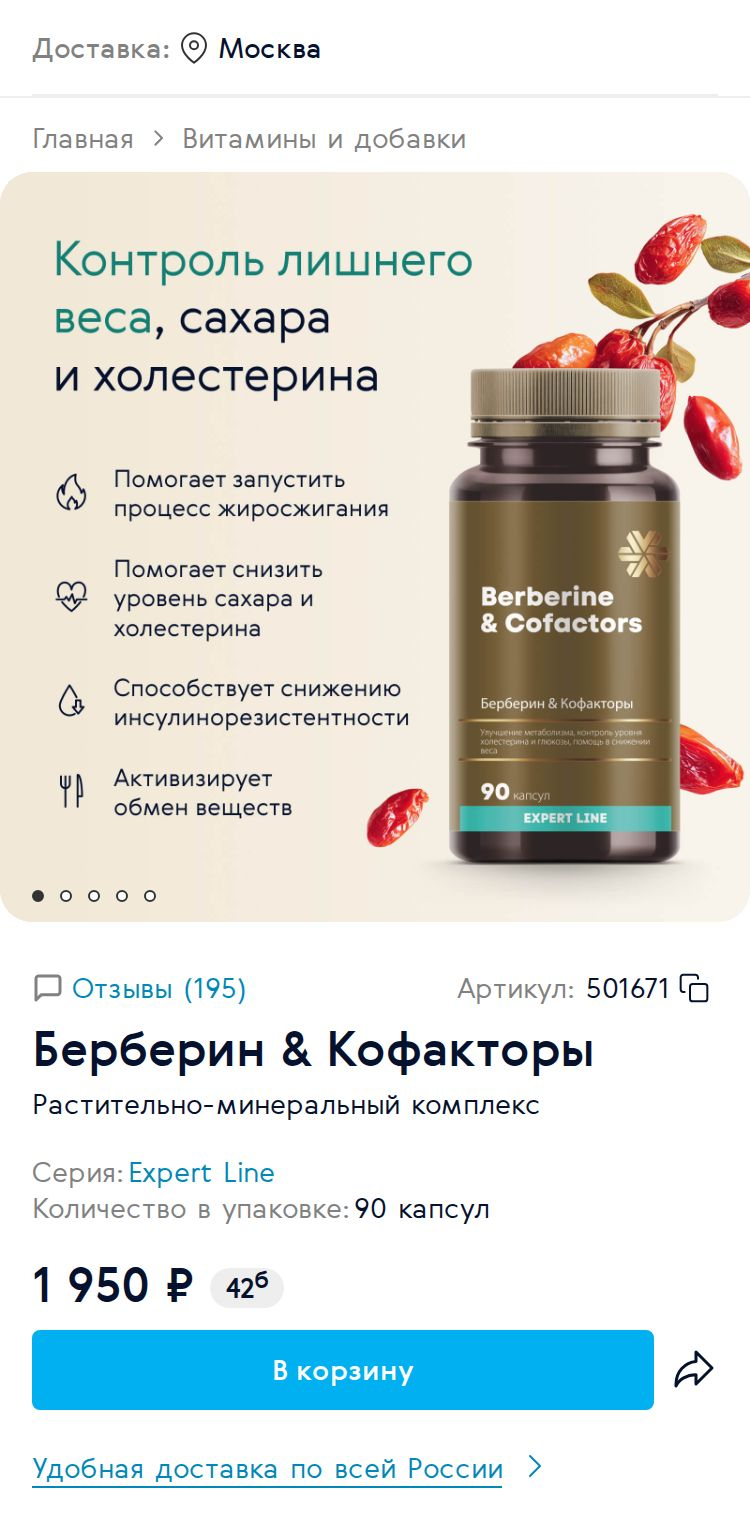
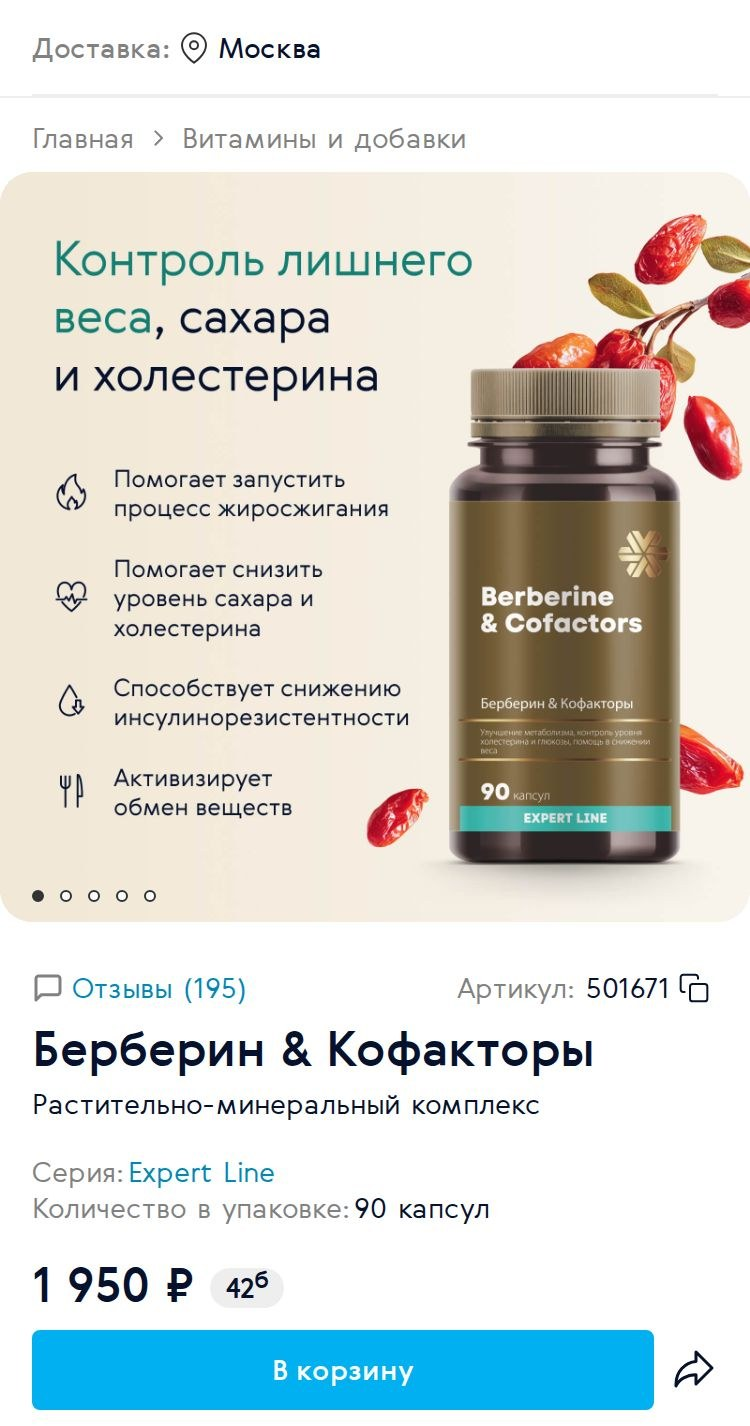
referal: продуктовая — баннер под «В корзину», кнопка 160px

diff --git a/referal/index.html b/referal/index.html
@@ -76,6 +76,9 @@
     background: #fff; display: flex; align-items: center; justify-content: center; color: var(--navy-ink);
   }
 
+  .cartBtn { position: absolute; border: none; border-radius: 4px; background: var(--brand); color: #fff; font-size: 16px; font-weight: 500; cursor: pointer; padding: 0; }
+  .cartBtn:active { background: var(--brand-d); }
+
   /* Таббар прода */
   .tabbar { flex: 0 0 auto; height: 52px; display: flex; border-top: 1px solid var(--line-2); background: #fff; }
   .tabbar button { flex: 1; background: none; border: none; display: flex; align-items: center; justify-content: center; color: var(--ink); cursor: pointer; padding: 0; }
@@ -278,7 +281,7 @@
 
   /* WHY: слои прода тянутся по ширине экрана, поэтому хотспоты задаём в % от слоя (координаты сняты в сетке 375px) */
   const at = (l, t, w, h, H) => ({ left: l / 3.75 + '%', top: (t / H) * 100 + '%', width: w / 3.75 + '%', height: (h / H) * 100 + '%' });
-  const PRODUCT_A_H = 761;
+  const PRODUCT_A_H = 713;
 
   /* Анимация отсвета стартует, когда баннер впервые попал в экран, а не при загрузке страницы */
   function useInView() {
@@ -404,13 +407,17 @@
           <img className="slice" src="assets/product-a.jpg" alt="" />
           <button type="button" className="hot" aria-label="Главная" style={at(8, 56, 70, 28, PRODUCT_A_H)} onClick={() => go('main')} />
           {/* WHY: «В корзину» сразу ведёт на сенкью — для теста оформление заказа пропускаем */}
-          <button type="button" className="hot" aria-label="В корзину" style={at(16, 665, 311, 40, PRODUCT_A_H)} onClick={() => go('thanks')} />
+          {/* WHY: на мобилке CTA «В корзину» по макету 160px — растровую кнопку прода закрываем и рисуем свою */}
+          <div style={{ position: 'absolute', ...at(14, 663, 316, 44, PRODUCT_A_H), background: '#fff' }} />
+          <button type="button" className="cartBtn" style={{ ...at(16, 665, 0, 40, PRODUCT_A_H), width: 160 }} onClick={() => go('thanks')}>В корзину</button>
           {/* WHY: пока программа активна, «Поделиться» живёт в баннере — иконку прода у CTA закрываем белой плашкой; после завершения — дефолт прода */}
           {STATE !== 'active'
             ? <button type="button" className="hot" aria-label="Поделиться" style={at(328, 664, 44, 44, PRODUCT_A_H)} onClick={() => open('share')} />
             : <div style={{ position: 'absolute', ...at(330, 662, 45, 46, PRODUCT_A_H), background: '#fff' }} />}
         </div>
-        {STATE === 'active' && <div className="pad" style={{ margin: '8px 0 20px' }}><Banner104 onShare={() => open('share')} /></div>}
+        {/* Баннер сразу под «В корзину», над строкой «Удобная доставка» */}
+        {STATE === 'active' && <div className="pad" style={{ margin: '8px 0 4px' }}><Banner104 onShare={() => open('share')} /></div>}
+        <img className="slice" src="assets/product-a2.jpg" alt="" />
         {/* Полная продуктовая прода до футера, нарезана частями по 2000px, чтобы грузилась по мере прокрутки */}
         {[1, 2, 3, 4, 5, 6].map((i) => <img className="slice" key={i} src={`assets/product-b${i}.jpg`} alt="" loading={i > 1 ? 'lazy' : undefined} />)}
       </>
